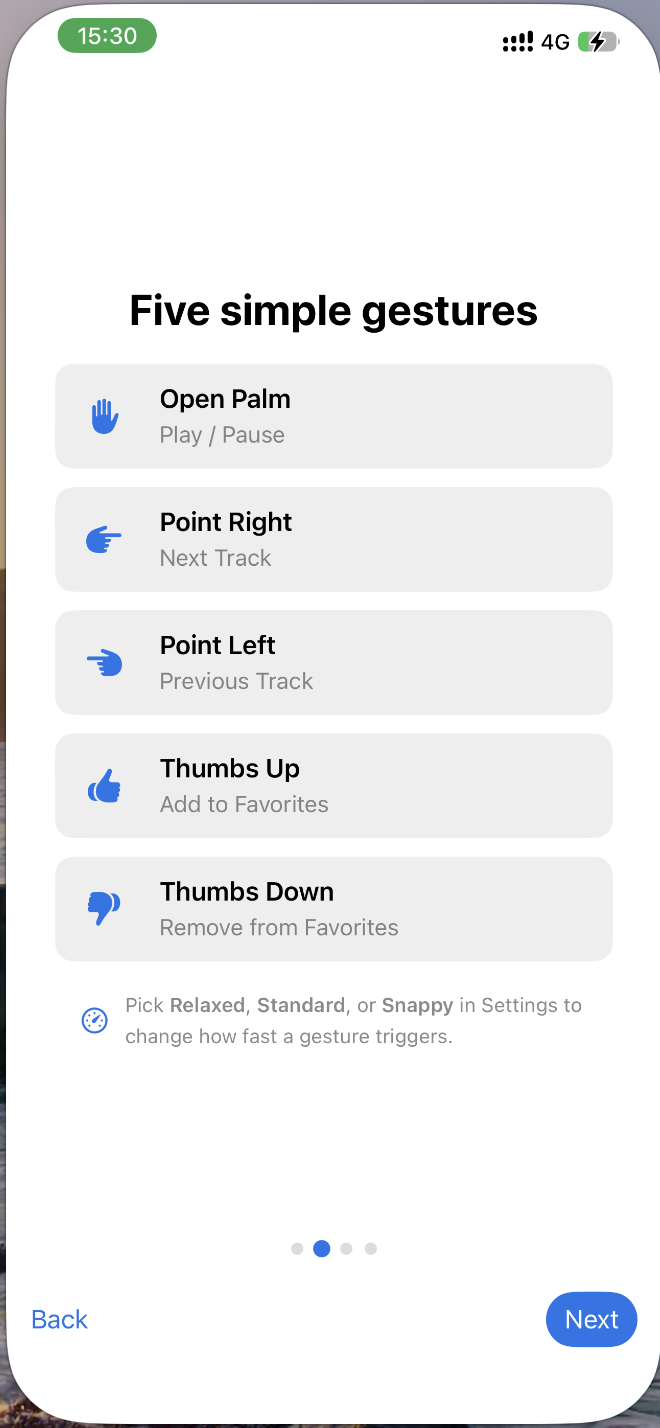
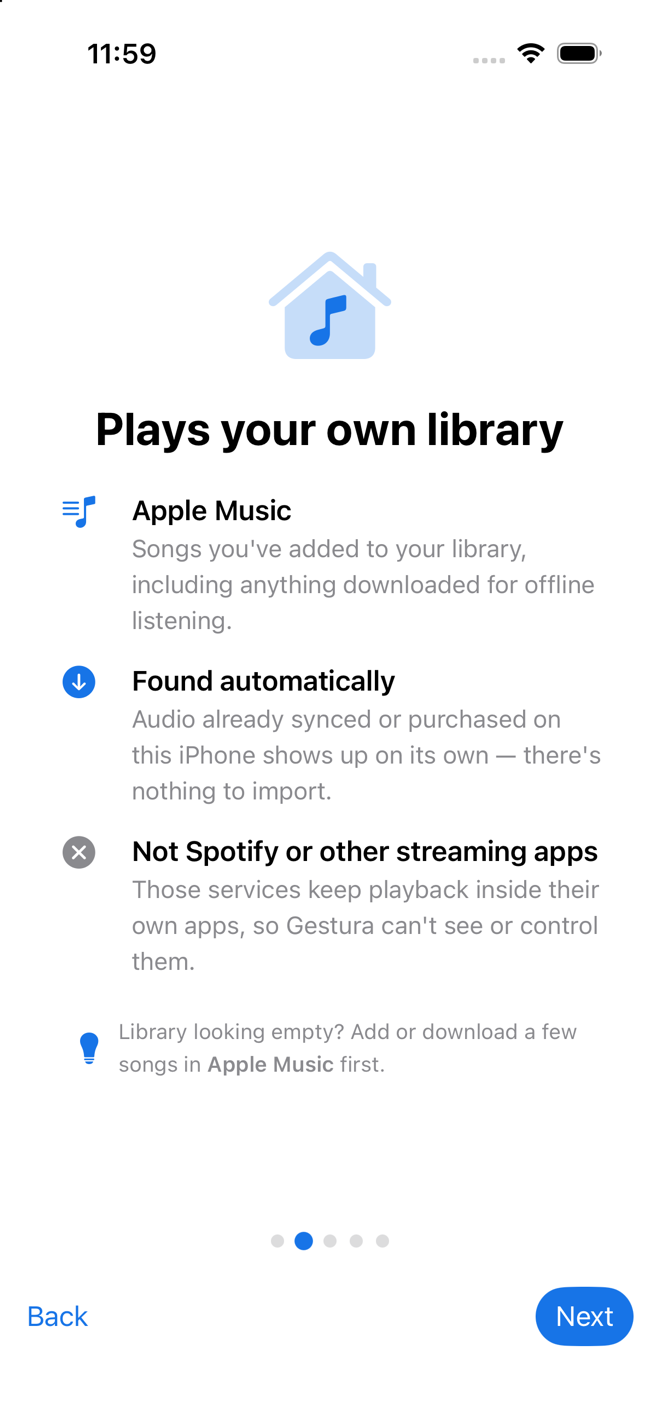
Document the library step and correct the iOS requirement
Onboarding gained a "Plays your own library" step, so the screenshot
table was a step short. Renumber the captures to keep filenames aligned
with flow position and add the new one in second place.

Requirements said iOS 26.4+; the real floor is 26.1, set by
tabViewBottomAccessory(isEnabled:) in ContentView. The other iOS 26 APIs
in use (glassEffect, tabBarMinimizeBehavior) only need 26.0.

Also spell out what "your library" covers. The previous wording asked for
"an iPhone with songs in the Music library" without ruling anything out,
which left Spotify users to find out for themselves.

diff --git a/README.md b/README.md
@@ -103,13 +103,18 @@ open Gestura/Gestura.xcodeproj
 
 ### Onboarding
 
-| Welcome | Gestures | Privacy | All Set |
-|---|---|---|---|
-| ![Welcome](assets/onboarding-1.png) | ![Gestures](assets/onboarding-2.png) | ![Privacy](assets/onboarding-3.png) | ![All Set](assets/onboarding-4.png) |
+| Welcome | Your Library | Gestures | Privacy | All Set |
+|---|---|---|---|---|
+| ![Welcome](assets/onboarding-1.png) | ![Your Library](assets/onboarding-2.png) | ![Gestures](assets/onboarding-3.png) | ![Privacy](assets/onboarding-4.png) | ![All Set](assets/onboarding-5.png) |
 
 > **Run on a real device.** Gesture control needs the front camera, and playback uses your on-device music library — neither works in the Simulator. Grant camera access when prompted, enable Gestura in Settings, and play a track.
 
 ## Requirements
 
-- iOS 26.4+ · Xcode 26+
+- iOS 26.1+ · Xcode 26+
 - An iPhone with songs in the Music library
+
+Gestura plays your own library — songs added to Apple Music (including
+downloads for offline listening) and audio already synced or purchased on the
+device. It can't see or control Spotify, YouTube Music, or other streaming
+apps, which keep playback inside their own processes.
